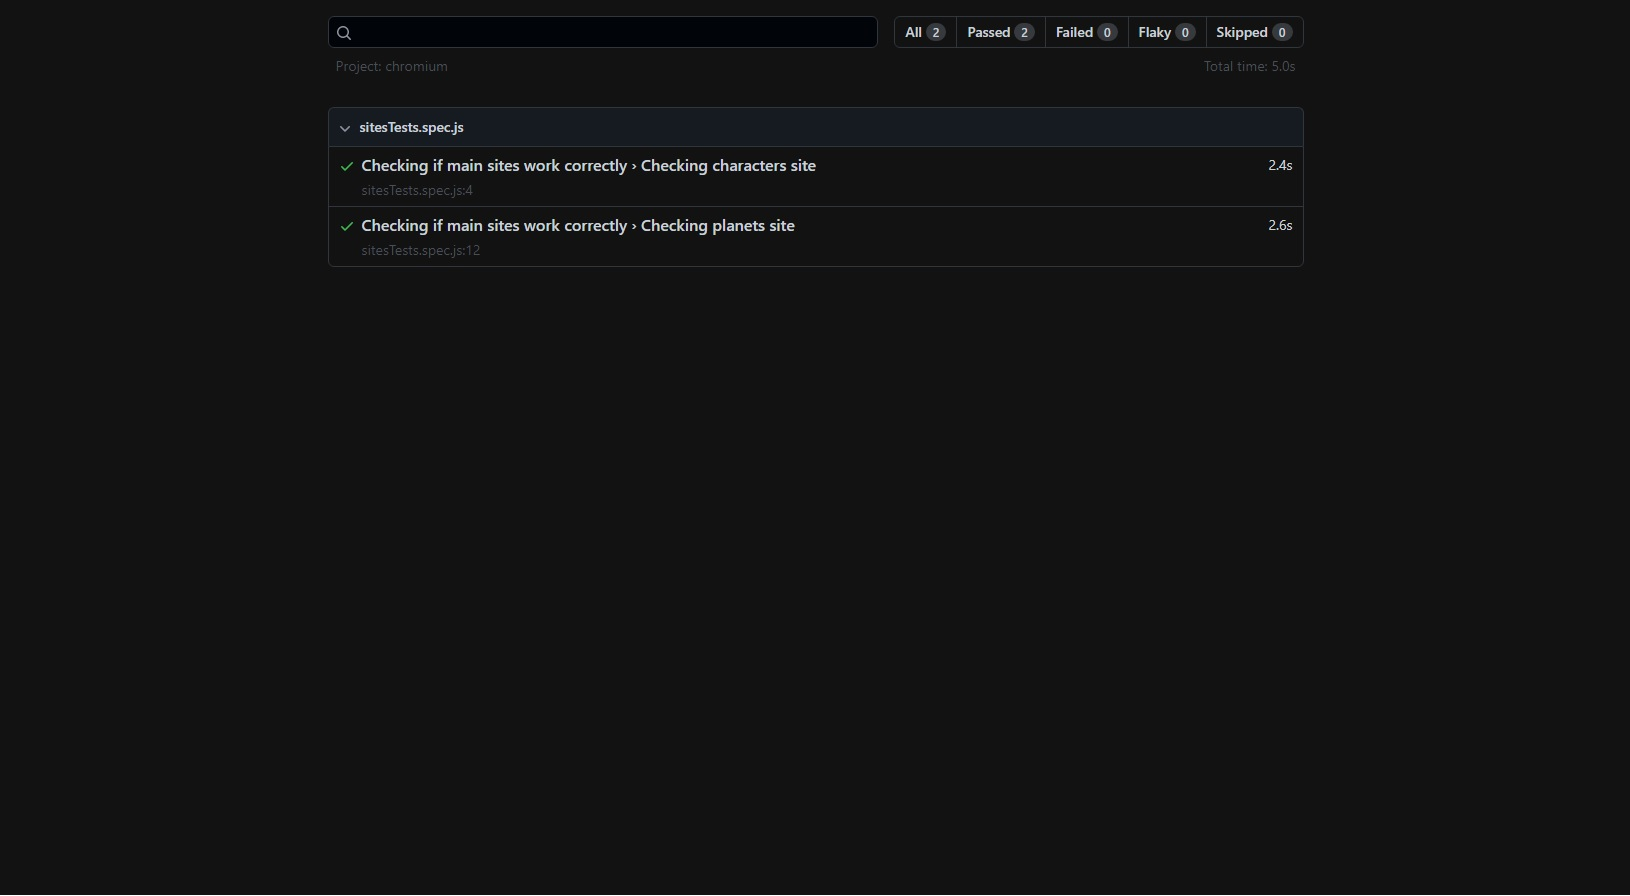
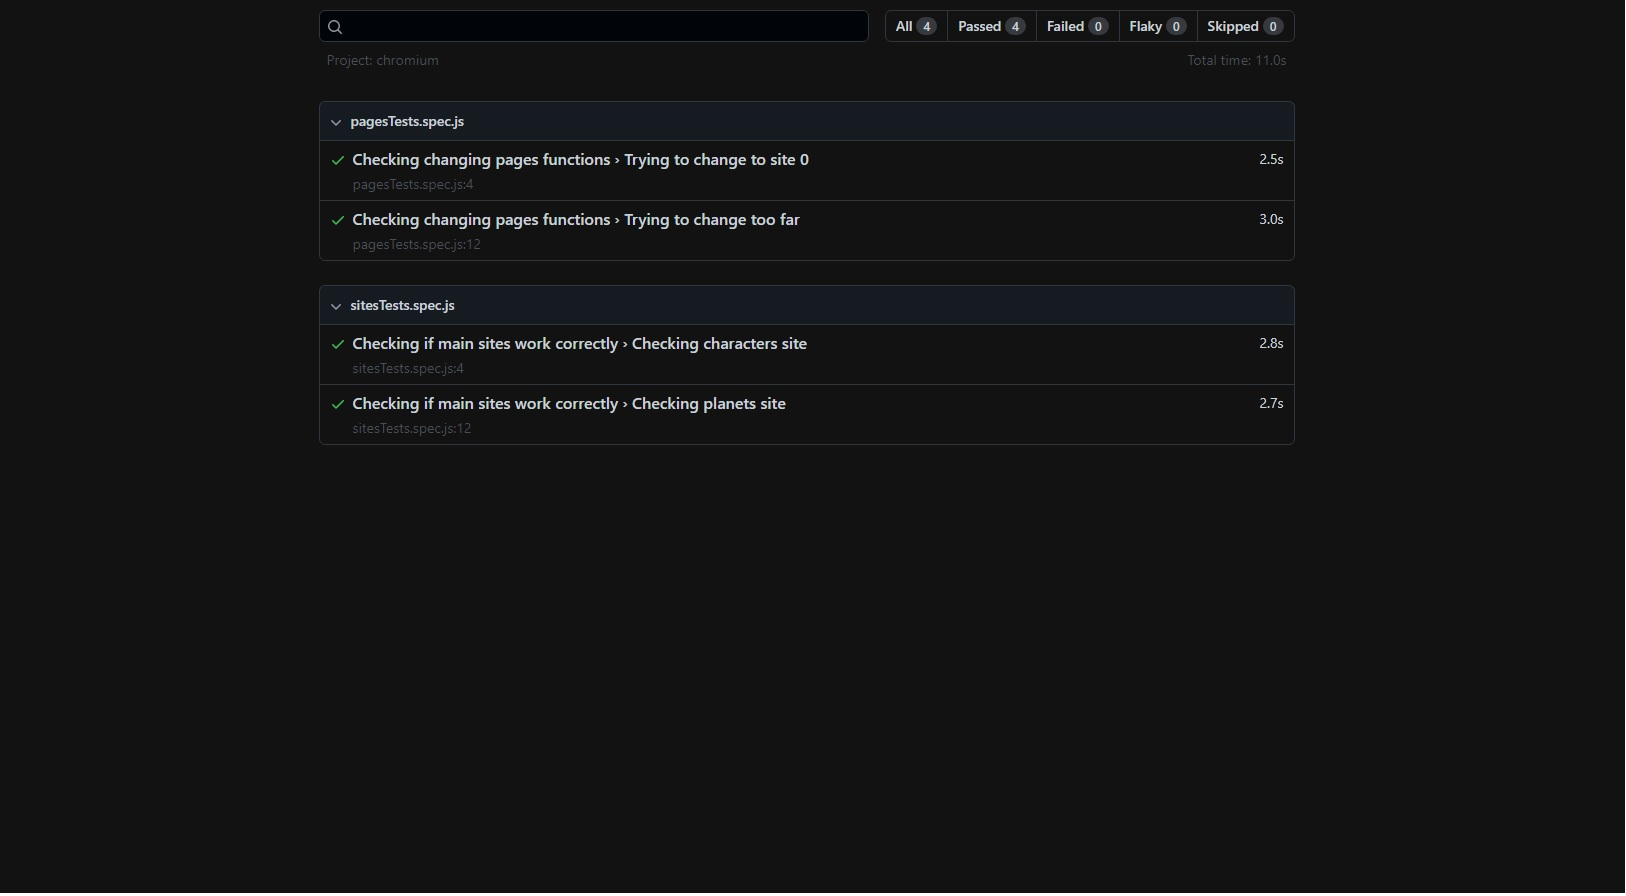
Added new tests

diff --git a/tests/pagesTests.spec.js b/tests/pagesTests.spec.js
@@ -1,0 +1,23 @@
+import { test, expect } from '@playwright/test';
+
+test.describe('Checking changing pages functions', () => {
+    test('Trying to change to site 0', async ({ page }) => {
+        await page.goto('https://my-starwarsapi-site.netlify.app/html/menu.html');
+        await page.getByTestId('characters_link').click();
+        await page.getByRole('button', { name: 'Previous' }).click();
+
+        await expect(page.getByTestId('pageNumber')).toHaveText('1')
+    });
+
+    test('Trying to change too far', async ({ page }) => {
+        await page.goto('https://my-starwarsapi-site.netlify.app/html/menu.html');
+        await page.getByTestId('characters_link').click();
+        for (let i = 0; i < 10; i++) {
+            await page.getByRole('button', { name: 'Next' }).click();
+        }
+
+        await expect(page.getByTestId('pageNumber')).toHaveText('9');
+    });
+})
+
+
